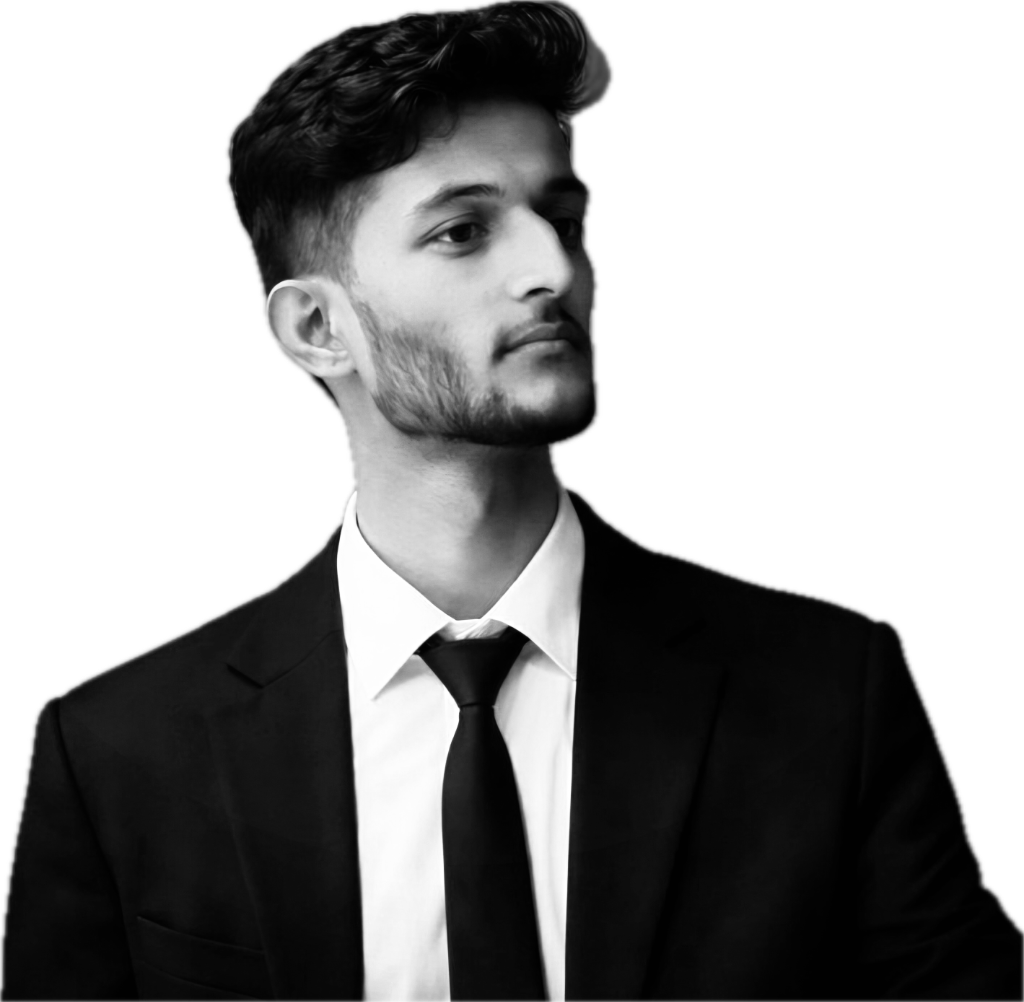
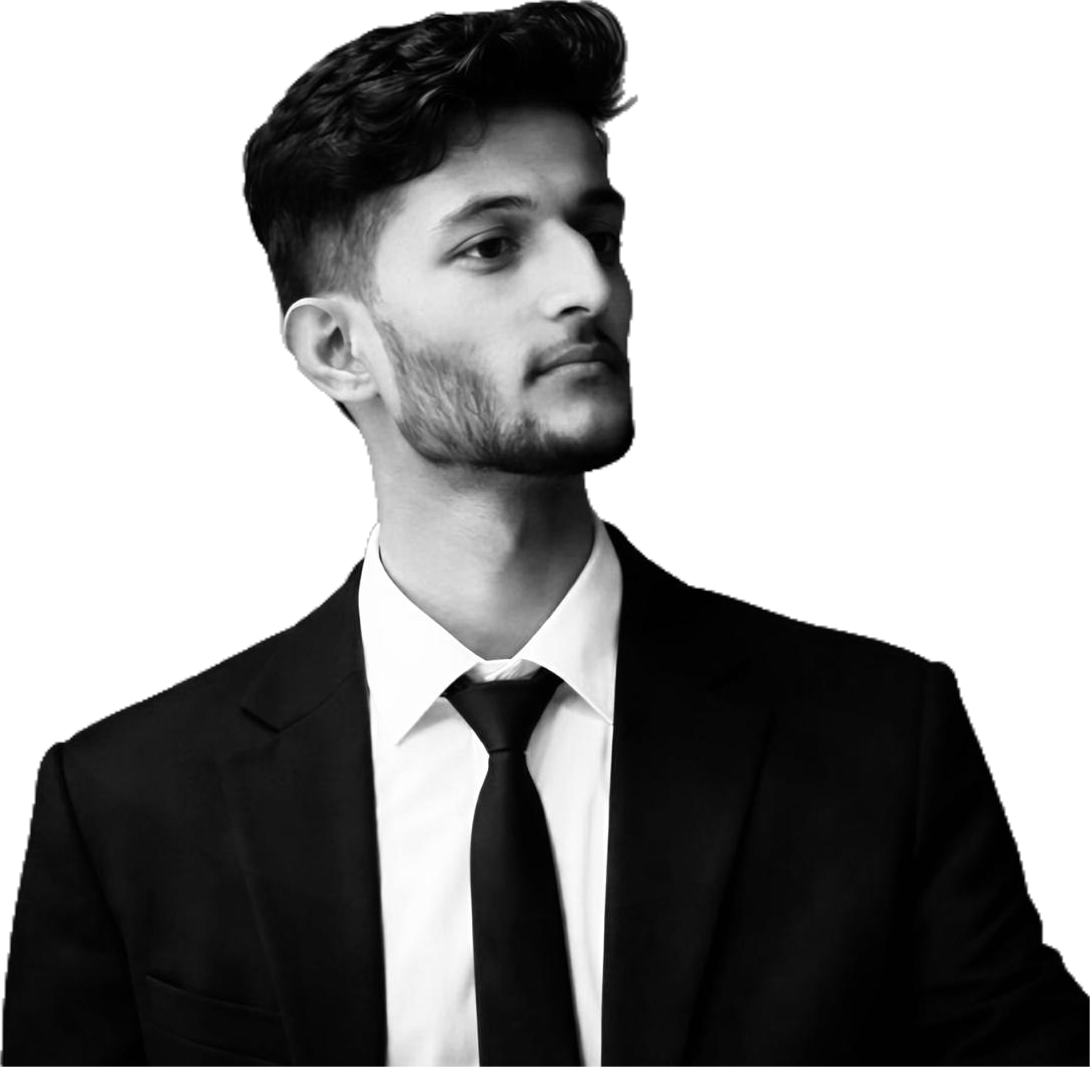
refactor: update hero section layout, styling, and assets while removing unused preloader imagery

diff --git a/src/app/globals.css b/src/app/globals.css
@@ -1867,7 +1867,7 @@ noscript {
     padding: 80px 5% 0;
     gap: 0;
     background: #030508;
-    background-image: url('/hero_bg.png');
+    background-image: url('/hero-bg.png');
     background-size: cover;
     background-position: center 70%;
 }
@@ -1887,7 +1887,7 @@ noscript {
     right: 0;
     /* border: 1px solid red; */
     height: 120px;
-    background: linear-gradient(to bottom, transparent 0%, #111111 100%);
+    background: linear-gradient(to bottom, transparent 0%, #000000 100%);
     z-index: 3;
     pointer-events: none;
 }
@@ -1974,7 +1974,7 @@ noscript {
     position: relative;
     z-index: 2;
     display: flex;
-    align-items: center;
+    align-items: flex-end;
     justify-content: center;
     margin-top: 0;
     flex: 1;
@@ -2022,22 +2022,20 @@ noscript {
     position: relative;
     z-index: 1;
     width: 100%;
-    max-width: 800px;
+    max-width: 600px;
     height: auto;
-    margin-bottom: 20px;
     display: flex;
-    align-items: center;
+    align-items: flex-end;
     justify-content: center;
 }
 
 .hero-photo {
     width: 100% !important;
-    max-height: 90vh;
-    /* border: 2px solid red; */
+    max-height: 80vh;
     height: auto !important;
     object-fit: contain;
-    object-position: center;
-    margin-top: -100px;
+    object-position: bottom;
+    margin-top: 0;
     filter: none;
     border-radius: 0;
 }
@@ -2073,14 +2071,15 @@ noscript {
 /* ── LEFT SIDE TYPOGRAPHY ── */
 .hero-vertical-text {
     position: absolute;
-    left: -60px;
-    bottom: 0;
-    transform: rotate(-90deg) translateX(-50%);
+    left: 40px;
+    bottom: 150px;
+    transform: rotate(-90deg);
     transform-origin: left bottom;
     font-family: var(--font-fira-code), monospace;
     font-size: 1.2rem;
     letter-spacing: 0.3em;
     color: rgba(255, 255, 255, 0.3);
+    z-index: 20;
 }
 
 .hero-eyebrow {
@@ -2359,13 +2358,13 @@ noscript {
     bottom: 0;
     left: 0;
     right: 0;
-    height: 300px;
+    height: 400px;
     background: linear-gradient(to bottom,
             transparent 0%,
-            rgba(3, 5, 8, 0.3) 25%,
-            rgba(3, 5, 8, 0.65) 50%,
-            rgba(3, 5, 8, 0.9) 75%,
-            #030508 100%);
+            rgba(0, 0, 0, 0.4) 30%,
+            rgba(0, 0, 0, 0.8) 60%,
+            #000000 85%,
+            #000000 100%);
     z-index: 2;
     pointer-events: none;
 }
@@ -2456,13 +2455,11 @@ noscript {
         width: 100%;
         background: linear-gradient(to bottom,
                 transparent 0%,
-                rgba(3, 5, 8, 0.05) 10%,
-                rgba(3, 5, 8, 0.15) 25%,
-                rgba(3, 5, 8, 0.35) 40%,
-                rgba(3, 5, 8, 0.55) 55%,
-                rgba(3, 5, 8, 0.75) 70%,
-                rgba(3, 5, 8, 0.9) 85%,
-                #030508 100%);
+                rgba(0, 0, 0, 0.2) 20%,
+                rgba(0, 0, 0, 0.5) 45%,
+                rgba(0, 0, 0, 0.85) 70%,
+                #000000 85%,
+                #000000 100%);
     }
 
     .hero-nebula--left,
@@ -2530,13 +2527,11 @@ noscript {
         width: 100%;
         background: linear-gradient(to bottom,
                 transparent 0%,
-                rgba(3, 5, 8, 0.05) 10%,
-                rgba(3, 5, 8, 0.12) 22%,
-                rgba(3, 5, 8, 0.3) 38%,
-                rgba(3, 5, 8, 0.5) 52%,
-                rgba(3, 5, 8, 0.7) 66%,
-                rgba(3, 5, 8, 0.88) 82%,
-                #030508 100%);
+                rgba(0, 0, 0, 0.2) 20%,
+                rgba(0, 0, 0, 0.5) 45%,
+                rgba(0, 0, 0, 0.85) 70%,
+                #000000 85%,
+                #000000 100%);
     }
 
     .hero-nebula--left,
@@ -5188,7 +5183,8 @@ footer {
     }
 
     .mobiletogglemenu {
-        background-color: rgba(10, 10, 10, 0.85); /* semi-transparent black */
+        background-color: rgba(10, 10, 10, 0.85);
+        /* semi-transparent black */
         z-index: 9990;
         height: 100vh;
         width: 100vw;
@@ -5268,7 +5264,7 @@ footer {
         background-color: #fff;
         box-shadow: 0 0 10px rgba(255, 255, 255, 0.5);
     }
-    
+
     .about-info,
     .dp,
     .info-dp-section {

diff --git a/src/components/Hero.jsx b/src/components/Hero.jsx
@@ -63,6 +63,8 @@ const Hero = () => {
 
     return (
         <section className="hero-section" id="home">
+            <div className="hero-vertical-text">SCROLL TO EXPLORE</div>
+
             {/* ── Star particles ── */}
             {/* <canvas ref={canvasRef} className="hero-stars-canvas" /> */}
 
@@ -81,18 +83,18 @@ const Hero = () => {
                 transition={{ duration: 0.8, delay: 0.3, ease: [0.22, 1, 0.36, 1] }}
             >
                 {/* Centered glow behind image */}
-                {/* <div className="hero-photo-glow" /> */}
+                <div className="hero-photo-glow" />
 
                 {/* Concentric rings — perfectly centered */}
-                {/* <div className="hero-ring hero-ring--outer" />
-                <div className="hero-ring hero-ring--inner" /> */}
+                <div className="hero-ring hero-ring--outer" />
+                <div className="hero-ring hero-ring--inner" />
 
                 {/* Profile photo */}
                 <div className="hero-photo-wrapper">
                     <Image
-                        src="/png/image.png"
+                        src="/png/dhruvesh-hero.png"
                         alt="Dhruvesh Shyara"
-                        width={650}
+                        width={550}
                         height={700}
                         priority
                         className="hero-photo"
@@ -100,7 +102,7 @@ const Hero = () => {
                 </div>
 
                 {/* Bottom cinematic fade */}
-                {/* <div className="hero-photo-fade" /> */}
+                <div className="hero-photo-fade" />
             </motion.div>
 
             {/* ── HTML TEXT OVERLAY (Matches Baked Image Text) ── */}
@@ -108,7 +110,6 @@ const Hero = () => {
 
                 {/* ── LEFT SIDE ── */}
                 <div className="hero-content-left">
-                    <div className="hero-vertical-text">SCROLL TO EXPLORE</div>
 
                     <motion.p
                         className="hero-eyebrow"

diff --git a/src/components/Preloader.jsx b/src/components/Preloader.jsx
@@ -1,12 +1,10 @@
 'use client';
 import { useEffect, useState, useRef, useCallback } from 'react';
 import { motion, AnimatePresence } from 'framer-motion';
-import Image from 'next/image';
 
 const Preloader = () => {
     const [shouldRender, setShouldRender] = useState(true);
     const [phase, setPhase] = useState('enter'); // enter → reveal → exit → done
-    const imgRef = useRef(null);
 
     useEffect(() => {
         // Skip preloader for Lighthouse, bots, and headless browsers
@@ -67,31 +65,7 @@ const Preloader = () => {
                 transition={{ duration: 1.5, ease: 'easeOut' }}
             />
 
-            {/* Hero Image — centered, large, behind text */}
-            <motion.div
-                className="preloader-hero-img"
-                ref={imgRef}
-                initial={{ opacity: 0, scale: 1.1 }}
-                animate={
-                    phase === 'enter'
-                        ? { opacity: 0, scale: 1.1 }
-                        : phase === 'reveal'
-                            ? { opacity: 1, scale: 1 }
-                            : { opacity: 1, scale: 1 }
-                }
-                transition={{ duration: 1.0, ease: [0.23, 1, 0.32, 1] }}
-            >
-                <Image
-                    src="/png/image.png"
-                    alt="Dhruvesh Shyara"
-                    width={650}
-                    height={700}
-                    priority
-                    className="preloader-hero-photo"
-                />
-            </motion.div>
-
-            {/* Big name text — over the image */}
+            {/* Big name text */}
             <div className="preloader-name-container">
                 <div className="preloader-name-row">
                     {firstName.map((ch, idx) => (
